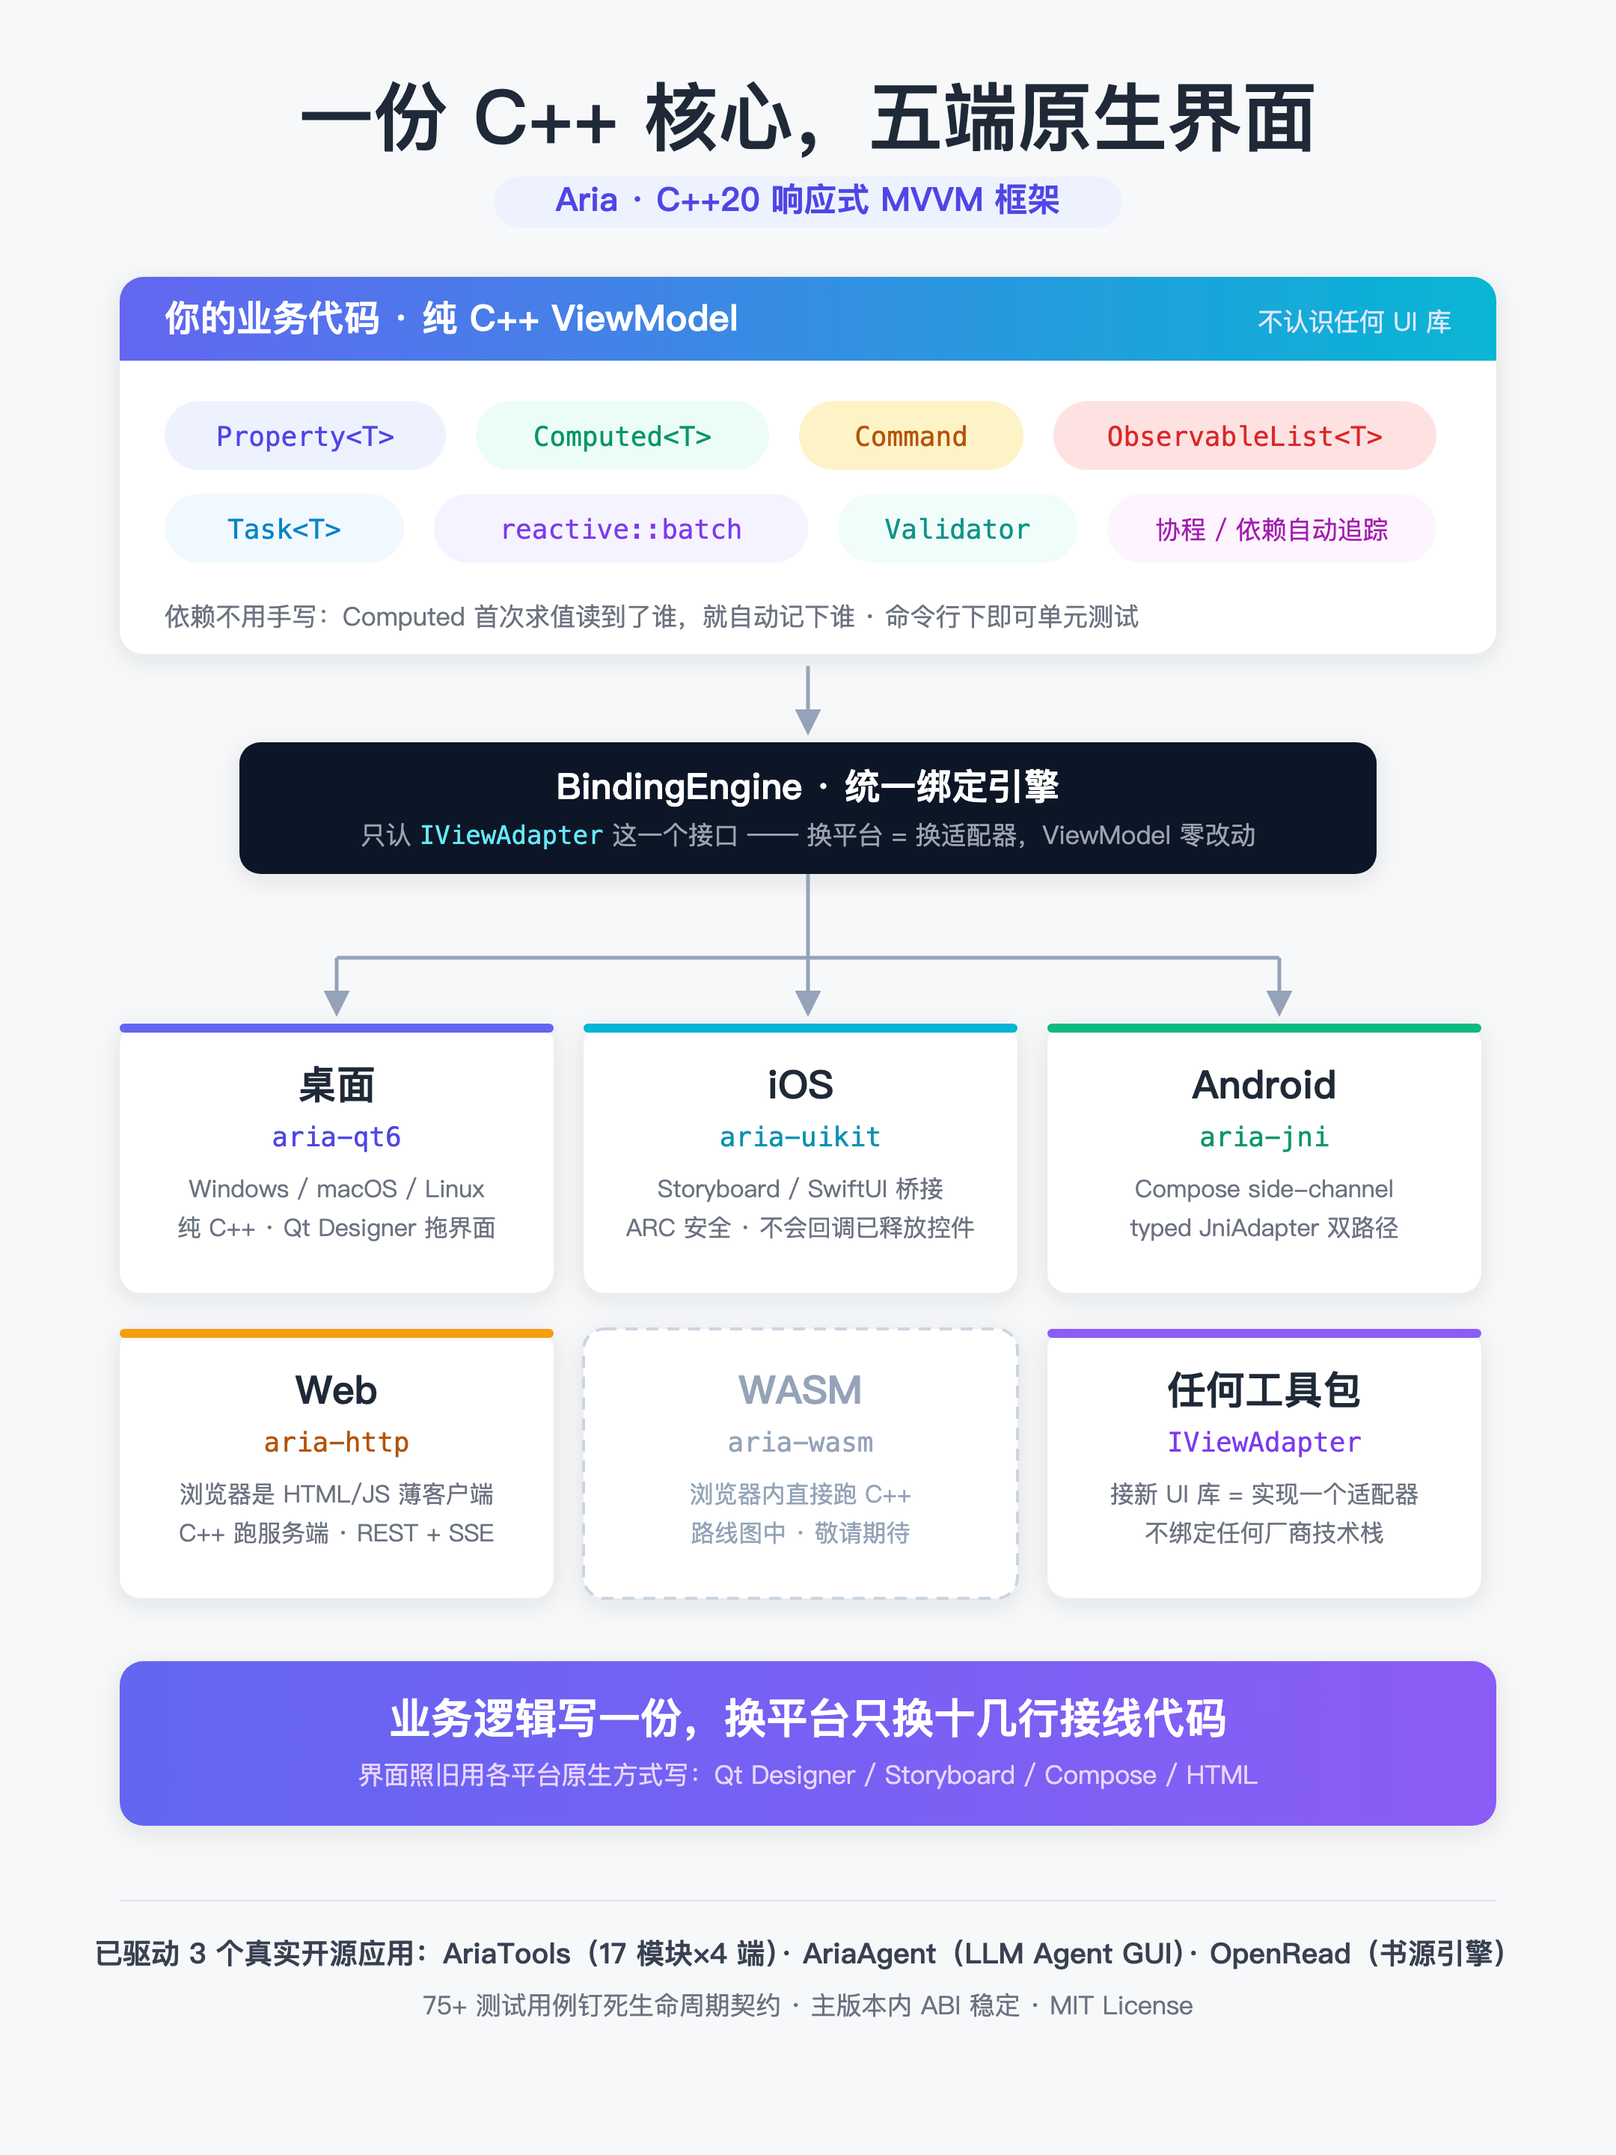
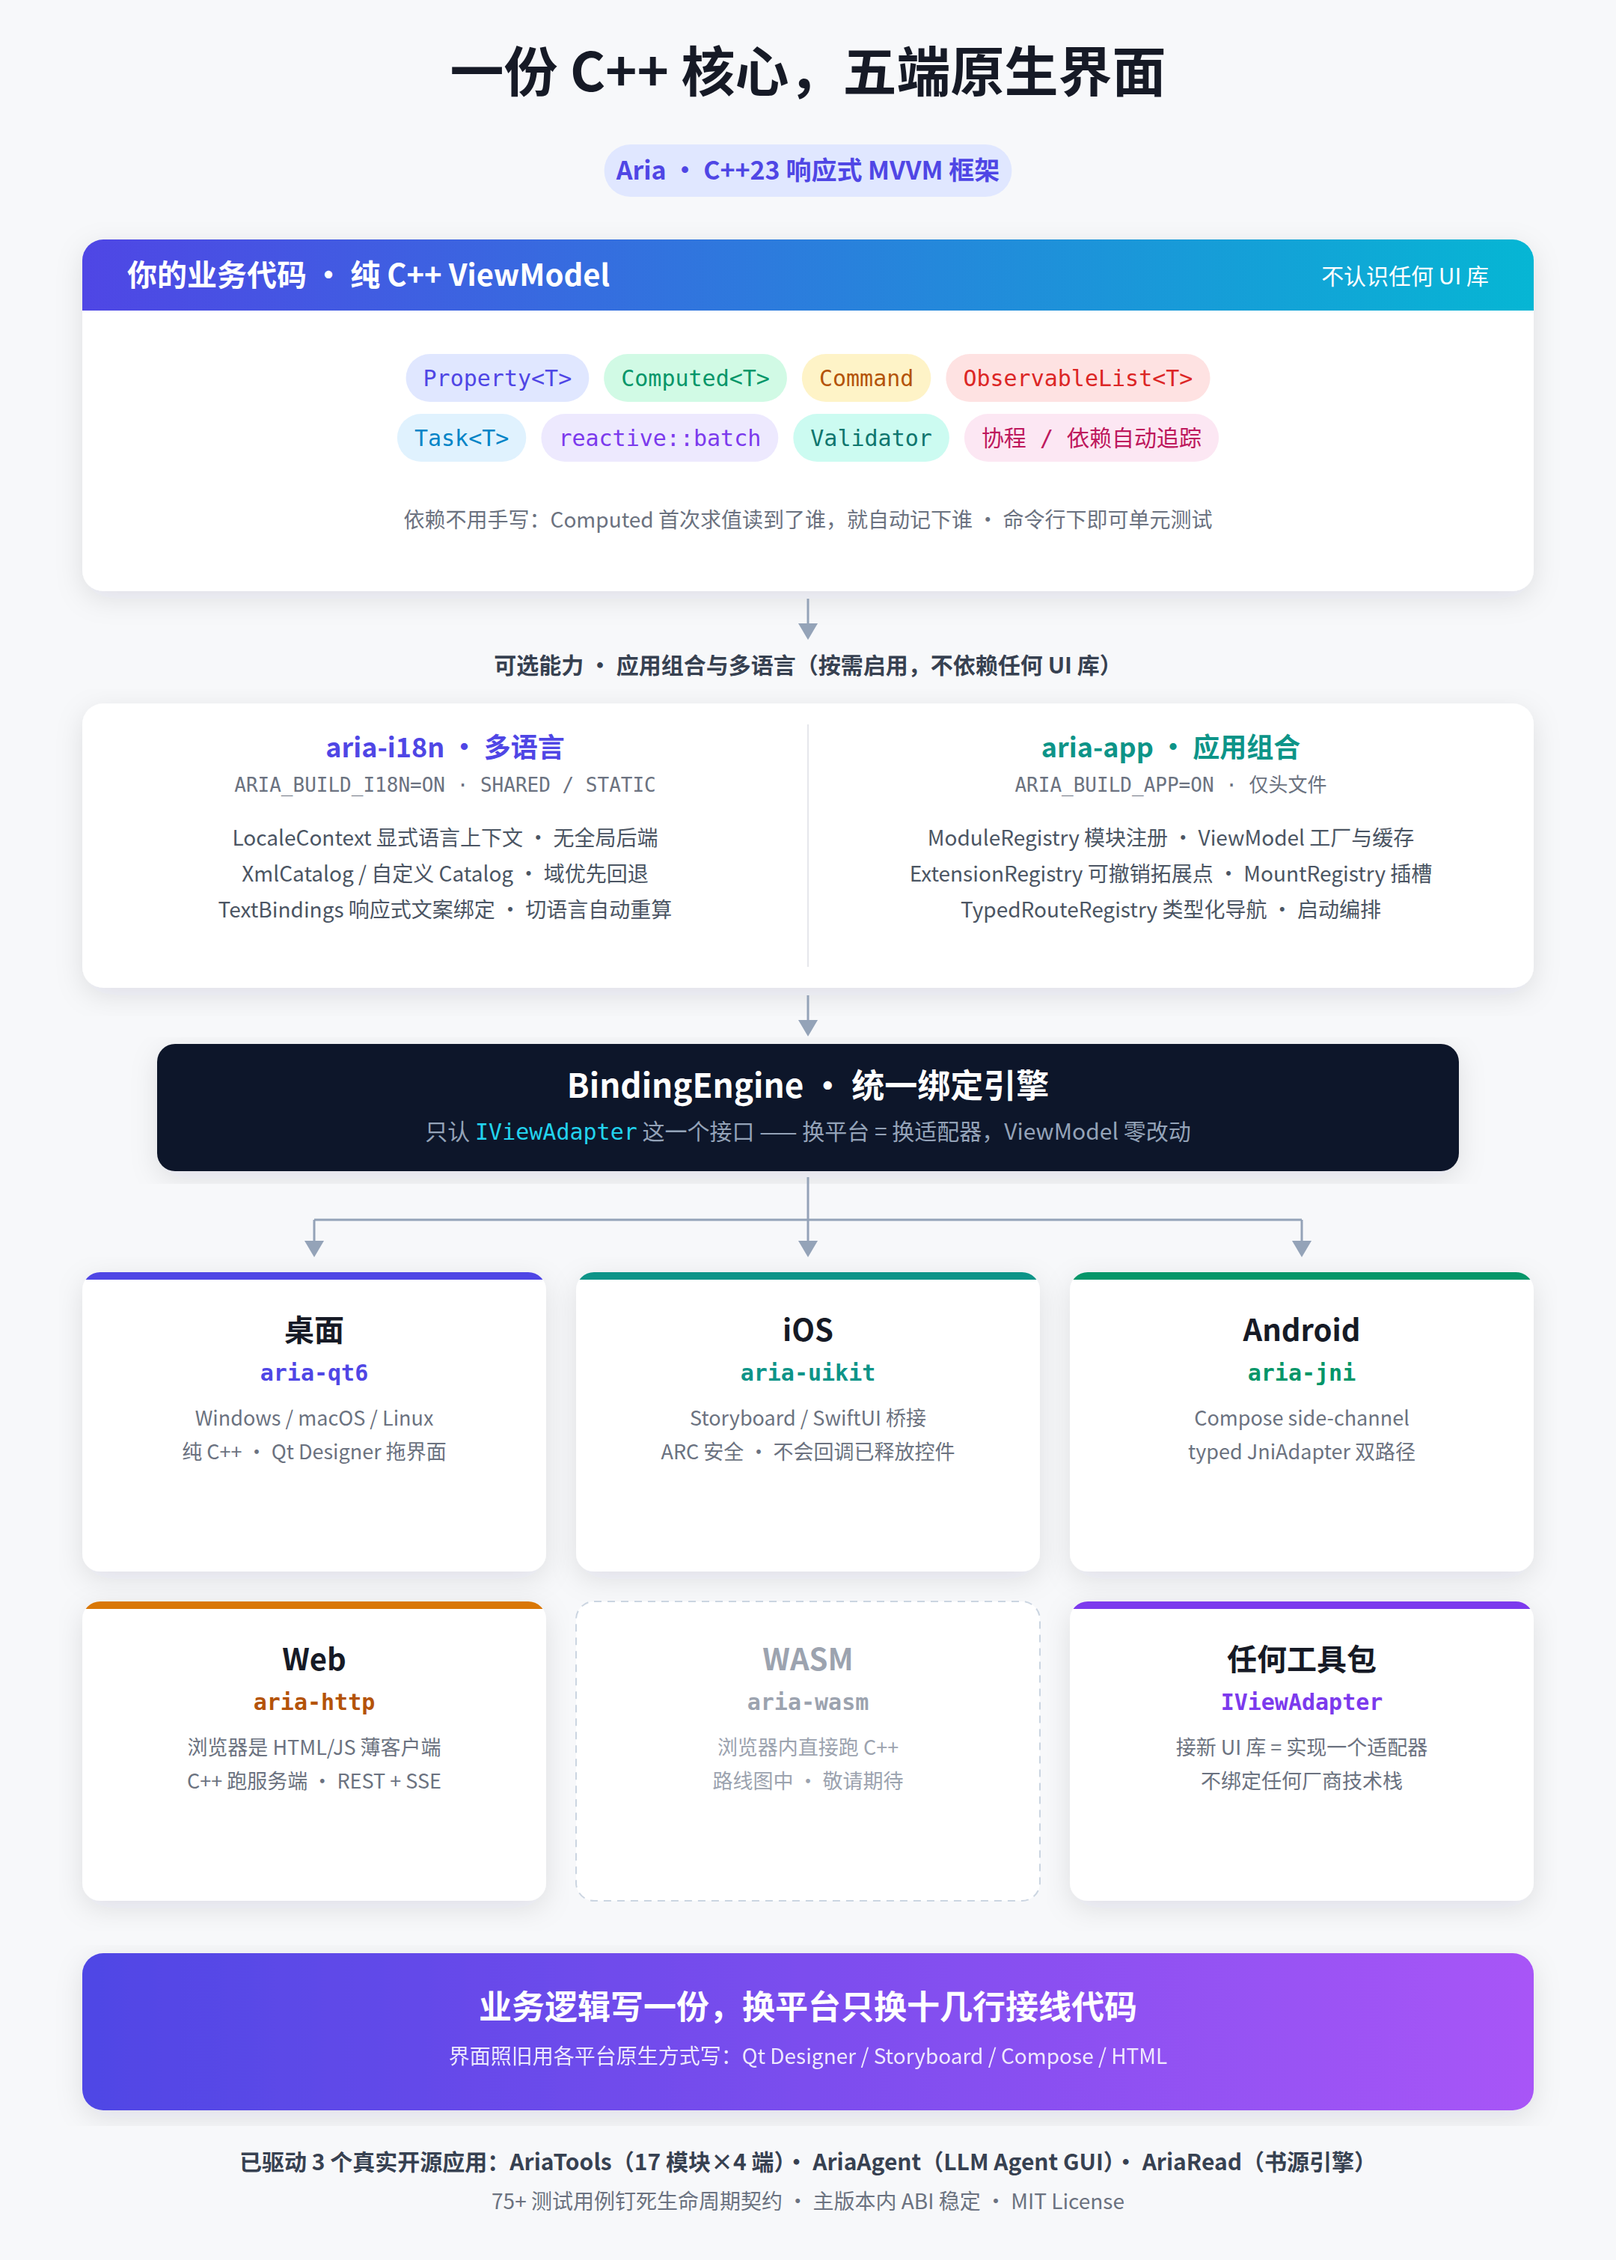
docs: refresh README images to C++23 and surface i18n/app capabilities
- aria-eco / aria-arch: C++20 -> C++23, OpenRead -> AriaRead
- aria-arch: add optional aria-i18n / aria-app capability band
- aria-eco: note optional i18n / modularization / extension points / slots
- README (zh/en): core features, design table and ASCII diagram now
  cover aria-i18n and aria-app; keep the vector sources (svg) next to
  the pngs for future edits

diff --git a/README.md b/README.md
@@ -185,7 +185,7 @@ aria::reactive::batch([&] {
 还有一条省心的默认行为：**如果最终结果和当前值相同，一次通知都不会发。**
 比如上面之后再 `batch` 里设 `bill=600, people=4`（仍是 150），label 不会被打扰。
 
-整个架构一张图看全——上半是纯 C++ 的 ViewModel，中间是 `BindingEngine`（只认 `IViewAdapter` 接口），下半是五个原生适配器：
+整个架构一张图看全——上半是纯 C++ 的 ViewModel，中间是 `BindingEngine`（只认 `IViewAdapter` 接口），下半是五个原生适配器；ViewModel 与引擎之间是可选的 `aria-i18n` 与 `aria-app` 能力层：
 
 ![Aria 架构总览](docs/marketing/images/aria-arch.png)
 
@@ -206,6 +206,7 @@ UI 通过 `IViewAdapter` 接入。Qt6 / AppKit / UIKit / JNI / HTTP 五个适配
 | **原生 UI 自由** | 控件、布局和动画交给所选 UI 工具包，Aria 统一状态与界面之间的单向/双向数据流；共享业务核心，各端保留原生体验。 |
 | **分层兼容策略** | `aria-abi` / `aria-runtime` / `aria-binding` 在主版本号内保持 ABI 稳定，要求编译器、标准库与构建选项一致；`Property<T>` 等模板及其宿主类型更新后需重新编译。 |
 | **开放适配协议** | Qt6 / AppKit / UIKit / JNI / HTTP 开箱可用；其他 UI 工具包通过实现 `IViewAdapter` 接入（见[适配器指南](docs/guide/adapters/)）。 |
+| **应用组合与多语言** | `aria-i18n`（`LocaleContext`、`XmlCatalog`、响应式文案绑定）与 `aria-app`（模块注册、ViewModel 工厂、拓展点、插槽）按需启用；不引入 UI、JSON 或网络依赖（见[本地化与应用组合指南](docs/guide/application-composition.md)）。 |
 | **应用实践与开发资料** | AriaTools、AriaAgent 与 AriaRead 展示跨端工作台、Agent GUI 和阅读引擎中的应用实践；[指南](docs/index.md)、[Cookbook](docs/cookbook/README.md) 与工程契约覆盖从入门到扩展的开发路径。 |
 
 **为共享 C++ 业务核心、原生多端 UI 和长期维护而设计。** Aria 负责业务与状态层，控件渲染与界面复用由所选 UI 工具包负责；两层通过明确的适配协议协作。
@@ -216,6 +217,8 @@ UI 通过 `IViewAdapter` 接入。Qt6 / AppKit / UIKit / JNI / HTTP 五个适配
 - 🔌 **共享基础库与 ABI 层** —— `aria::core` 自动链接 `aria::abi`，统一跨动态库的响应式图、诊断和信号存储。ABI 要求一致的编译器、标准库、构建选项和主版本；模板及其宿主类型在更新后需要重新编译。
 - ⚡ **C++ 协程** —— `Task<T>`、执行器、`co_await schedule_on(pool)`，异步代码写起来像同步代码。
 - 🖥 **适配器抽象** (`IViewAdapter`) —— Qt6 / AppKit / UIKit / JNI / HTTP，任何 UI 工具包都能用同一套业务逻辑驱动。
+- 🌍 **多语言** (`aria::i18n`，可选） —— `LocaleContext` 显式语言上下文、`XmlCatalog`/自定义 Catalog、响应式文案绑定 `TextBindings`；切换语言自动重算，不引入 UI、JSON 或网络依赖。
+- 🧩 **应用组合** (`aria::app`，可选） —— 模块注册、ViewModel 工厂与缓存、可撤销拓展点与插槽、类型化导航；按需启用。
 
 ## 🏗 架构（12 个模块）
 
@@ -261,6 +264,13 @@ UI 通过 `IViewAdapter` 接入。Qt6 / AppKit / UIKit / JNI / HTTP 五个适配
               │ 类型擦除 Signal/Slot         │
               │ ABI 稳定，无模板              │
               └─────────────────────────────┘
+
+可选能力（与适配器并列，按需启用；不进绑定主路径）：
+┌───────────────────────────────┐   ┌───────────────────────────────┐
+│ aria-i18n · 多语言            │   │ aria-app · 应用组合           │
+│ LocaleContext / XmlCatalog /  │   │ ModuleRegistry / ViewModel    │
+│ TextBindings 响应式文案绑定   │   │ 拓展点 / 插槽 / 类型化导航    │
+└───────────────────────────────┘   └───────────────────────────────┘
 ```
 
 | 模块 | 类型 | 依赖 | 说明 |
@@ -524,7 +534,7 @@ ctest --test-dir build/flavors/release --no-tests=error --output-on-failure
 
 ## 📊 性能基准
 
-2026-09-13，Apple M3 Pro / Apple Clang 21 / C++20 Release（`-O3 -DNDEBUG`）。
+2026-09-13，Apple M3 Pro / Apple Clang 21 / C++23 Release（`-O3 -DNDEBUG`）。
 下面是五次配对运行中，各次平均耗时的中位数；原版为 `aa039f6`，新版测量快照为 2.0 改造提交 `2f22e17`。
 
 | 操作 | 原版 | 新版 |

diff --git a/README.en.md b/README.en.md
@@ -196,7 +196,8 @@ notified at all.** Following on from above, a batch setting `bill=600, people=4`
 
 The whole architecture in one picture — upper half is the pure C++ ViewModel, the middle
 is `BindingEngine` (which only knows the `IViewAdapter` interface), and the bottom row is
-the five native adapters:
+the five native adapters. Between the ViewModel and the engine sit the optional
+`aria-i18n` and `aria-app` capability layers:
 
 ![Aria architecture overview](docs/marketing/images/aria-arch.png)
 
@@ -217,6 +218,7 @@ UI layers connect through `IViewAdapter`. Qt6 / AppKit / UIKit / JNI / HTTP shar
 | **Native UI freedom** | Your UI toolkit owns widgets, layout, and animation. Aria unifies one-way and two-way state binding, sharing the business core while preserving native experiences. |
 | **Layered compatibility** | `aria-abi` / `aria-runtime` / `aria-binding` maintain ABI stability within a major version, with matching compiler, standard library, and build options. Rebuild templates such as `Property<T>` and their containing types after updates. |
 | **Open adapter protocol** | Qt6 / AppKit / UIKit / JNI / HTTP ship out of the box. Integrate other UI toolkits by implementing `IViewAdapter` (see the [adapter guides](docs/guide/adapters/)). |
+| **App composition and i18n** | `aria-i18n` (`LocaleContext`, `XmlCatalog`, reactive text bindings) and `aria-app` (module registries, ViewModel factories, extension points, slots) are opt-in; they add no UI, JSON, or networking dependency (see the [localization and application composition guide](docs/guide/application-composition.md)). |
 | **Applications and learning resources** | AriaTools, AriaAgent, and AriaRead demonstrate cross-platform workbenches, agent GUIs, and reading engines. [Guides](docs/index.md), the [Cookbook](docs/cookbook/README.md), and engineering contracts cover the path from first integration to custom extensions. |
 
 **Designed for shared C++ business logic, native multi-platform UIs, and long-term maintenance.** Aria owns business state and binding; the chosen UI toolkit owns rendering and UI reuse. An explicit adapter protocol connects the two.
@@ -227,6 +229,8 @@ UI layers connect through `IViewAdapter`. Qt6 / AppKit / UIKit / JNI / HTTP shar
 - 🔌 **Shared foundation and ABI layer** — `aria::core` automatically links `aria::abi` for shared graph, diagnostics and signal storage. Binary compatibility requires matching compiler, standard library, build options and major version. Rebuild template code and its containing types after updates.
 - ⚡ **C++ coroutines** — `Task<T>`, executors, `co_await schedule_on(pool)`. Async code reads like sync code.
 - 🖥 **Adapter abstraction** (`IViewAdapter`) — Qt6 / AppKit / UIKit / JNI / HTTP. Any UI toolkit, same business logic.
+- 🌍 **Localization** (`aria::i18n`, optional) — explicit `LocaleContext`, `XmlCatalog`/custom catalogs, reactive text bindings via `TextBindings`; switching languages re-resolves text, with no UI, JSON, or networking dependency.
+- 🧩 **Application composition** (`aria::app`, optional) — module registries, ViewModel factories with caching, revocable extension points and slots, typed navigation; opt-in.
 
 ## 🏗 Architecture (12 modules)
 
@@ -272,6 +276,14 @@ UI layers connect through `IViewAdapter`. Qt6 / AppKit / UIKit / JNI / HTTP shar
               │ Type-erased Signal/Slot     │
               │ ABI-stable, no templates    │
               └─────────────────────────────┘
+
+Optional capabilities (alongside the adapters; opt-in; not on the binding path):
+┌───────────────────────────────┐   ┌───────────────────────────────┐
+│ aria-i18n · localization      │   │ aria-app · composition        │
+│ LocaleContext / XmlCatalog    │   │ ModuleRegistry / ViewModel    │
+│ TextBindings reactive text    │   │ extension points / slots      │
+│ explicit locale contexts      │   │ typed navigation              │
+└───────────────────────────────┘   └───────────────────────────────┘
 ```
 
 | Module | Type | Depends on | Notes |
@@ -607,7 +619,7 @@ build options. See [CI results](https://github.com/dqsjqian/Aria/actions/workflo
 
 ## 📊 Benchmarks
 
-Measured on 2026-09-13: Apple M3 Pro / Apple Clang 21 / C++20 Release
+Measured on 2026-09-13: Apple M3 Pro / Apple Clang 21 / C++23 Release
 (`-O3 -DNDEBUG`). Each entry is the median of five paired runs' mean operation
 times, comparing original revision `aa039f6` with 2.0 snapshot `2f22e17`.
 
